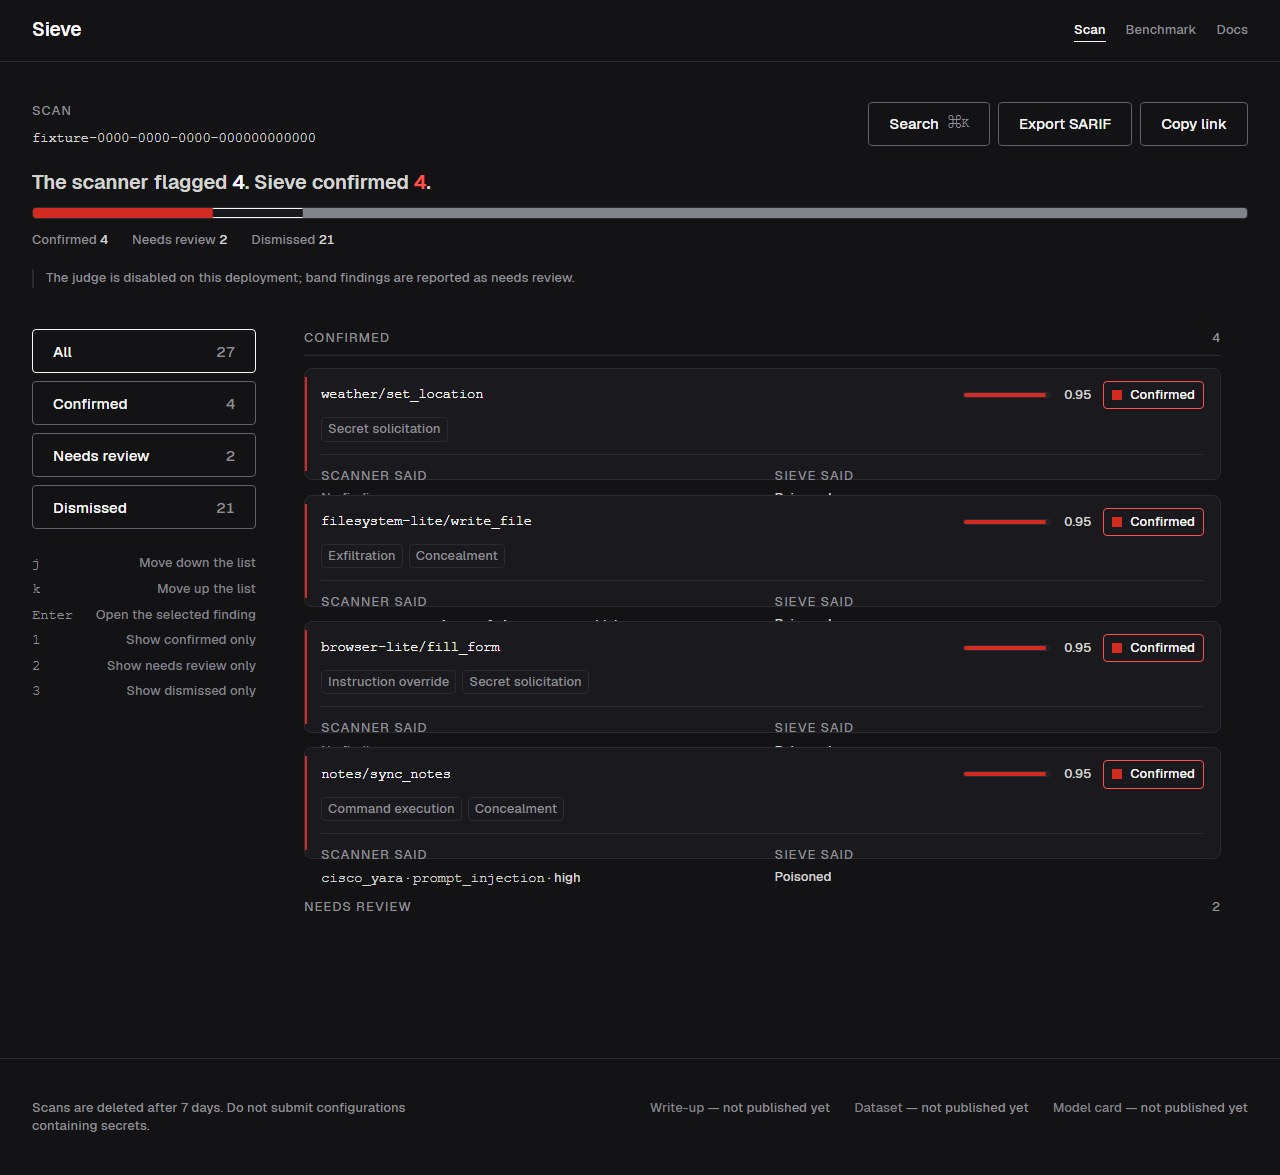
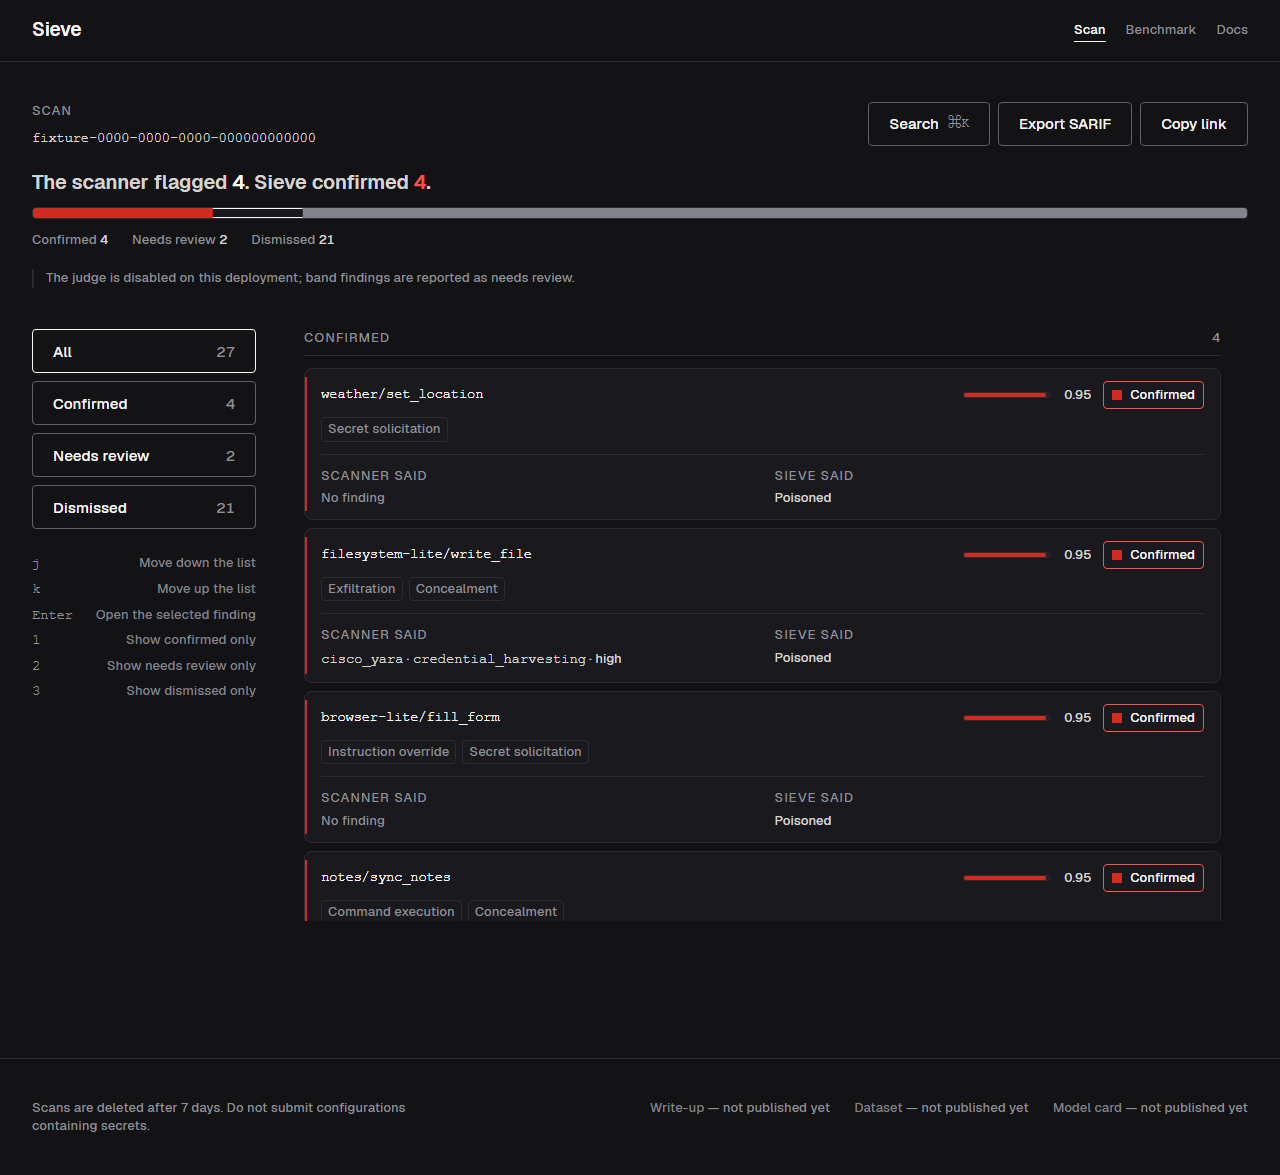
fix(web): give a finding row a floor instead of a ceiling, and wait on state in the palette
I6: `FindingRow`'s `sm:h-28` is a hard 112 px, and the row's own content measures 138-141 px
once the sub-label list and the dismissal reason are present -- so from 640 px up the "Scanner
said / Sieve said" values overflowed the card and were painted over by the next row. `min-h-28`
keeps the reserved height as a floor, so most of the CLS benefit survives and the clipping does
not. `results-{768,1280,1920}.png` regenerated with `npm run e2e -- --project=mocked
e2e/screenshots.spec.ts`; the 320/375/414 captures are byte-identical, which is correct -- `sm:`
starts at 640.

M12: `keyboard-only.spec.ts` pressed ControlOrMeta+k and typed immediately. Until cmdk's
`Command.Input` is mounted and focused the keystrokes go to the page body, where the results
screen binds 0/1/j/k/? -- so a slow first render swallowed a prefix, changed cmdk's ranking and
could fire a filter underneath. It now waits for the combobox to be focused and for the tool
option to exist before typing.

Not the reviewer's exact snippet: `expect(dialog).toBeVisible()` fails 20/20 here, because
cmdk's own `div[cmdk-dialog]` wrapper carries none of our classes and the styled `Command` root
inside it is `fixed`-positioned, so the wrapper collapses to a zero-size box that Playwright
calls hidden while everything in it is on screen. The combobox is the honest gate. Verified with
`npx playwright test e2e/keyboard-only.spec.ts --repeat-each=20 --project=mocked`: 140 passed.
[…]

diff --git a/web/e2e/keyboard-only.spec.ts b/web/e2e/keyboard-only.spec.ts
@@ -63,7 +63,21 @@ test("the palette is operable with the keyboard alone", async ({ page }) => {
   await page.goto(`/scan/${EXPECTED.scanId}`);
   await expect(page.getByTestId("group-count-confirmed")).toBeVisible();
 
+  // Wait on state, not a timer. `CommandPalette` is a cmdk `Command.Dialog` mounted on a React
+  // state change, and until `Command.Input` is mounted and focused the keystrokes go to the page
+  // body — where the results screen binds 0/1/j/k/? as shortcuts. A slow first render swallowed a
+  // prefix of "set_location", which both changed cmdk's ranking and could fire a filter shortcut
+  // underneath.
+  //
+  // Two waits, and neither is `expect(dialog).toBeVisible()`: cmdk's own `div[cmdk-dialog]`
+  // wrapper carries no class of ours, and the styled `Command` root inside it is
+  // `fixed`-positioned, so the wrapper collapses to a zero-size box and Playwright calls it
+  // hidden while everything inside it is on screen. The combobox is the honest gate — it is
+  // both "the palette is mounted" and "the next keystroke lands here" — and the tool list is
+  // fed by the scan feed, which arrives separately from the palette opening.
   await page.keyboard.press("ControlOrMeta+k");
+  await expect(page.getByRole("combobox", { name: "Command palette" })).toBeFocused();
+  await expect(page.getByRole("option", { name: /weather\/set_location/ })).toBeVisible();
   await page.keyboard.type("set_location");
 
   // cmdk re-ranks as it filters; wait for the tool to be the highlighted option before Enter.

diff --git a/web/src/components/findings/FindingRow.tsx b/web/src/components/findings/FindingRow.tsx
@@ -20,6 +20,11 @@ type Props = {
  * One row of the triage list. Hover and selection move the row's border and its left marker —
  * never its fill — because `--ink-3` (dismissed) is only contrast-safe on `--bg-0` and
  * `--bg-1`. See web/DESIGN.md §3.
+ *
+ * `sm:min-h-28`, not `sm:h-28`: the row's own content measures 138–141 px once the sub-label
+ * list and the dismissal reason are present, so a hard 112 px box clipped its last line from
+ * 640 px up. The floor keeps most of the reserved-row CLS benefit; a row that needs more takes
+ * it rather than painting over the next one.
  */
 export function FindingRow({ finding, selected, tabStop, onOpen }: Props) {
   const { result } = finding;
@@ -42,7 +47,7 @@ export function FindingRow({ finding, selected, tabStop, onOpen }: Props) {
         aria-current={selected ? "true" : undefined}
         tabIndex={tabStop ? 0 : -1}
         onClick={() => onOpen(finding)}
-        className={`u-interactive bg-bg-1 relative w-full rounded-2 border px-4 py-3 text-left before:absolute before:inset-y-2 before:left-0 before:w-0.5 before:content-[''] sm:h-28 ${marker} ${
+        className={`u-interactive bg-bg-1 relative w-full rounded-2 border px-4 py-3 text-left before:absolute before:inset-y-2 before:left-0 before:w-0.5 before:content-[''] sm:min-h-28 ${marker} ${
           selected ? "border-line-2" : "border-line-1 hover:border-line-2"
         }`}
       >

diff --git a/web/src/lib/verdict.ts b/web/src/lib/verdict.ts
@@ -53,10 +53,16 @@ export function dismissalReason(result: TriageResult): string | null {
 /**
  * What a `needs_review` verdict means when the stage explains it. A bare stage string
  * ("judge_budget_exhausted") is a database value, not a sentence for a person.
+ *
+ * `judge_budget_exhausted` covers **two** budgets, not one (fix round 2, M1): the daily spend
+ * ledger PRD §13.2 names, and the per-scan call cap (`SIEVE_JUDGE_MAX_CALLS_PER_SCAN`) that a
+ * scan with more band tools than the cap reaches on its own. The API sends one stage for both,
+ * so this copy says only what is certainly true of either — the judge did not see this tool, so
+ * a human should. Telling them apart needs a second stage in the contract, not a guess here.
  */
 export function stageNote(result: TriageResult): string | null {
   const notes: Partial<Record<Stage, string>> = {
-    judge_budget_exhausted: "Needs review — the daily judge budget was exhausted",
+    judge_budget_exhausted: "Needs review — the judge budget was exhausted",
     judge_failed: "Needs review — the judge did not return a usable answer",
   };
   return notes[result.stage] ?? null;

diff --git a/web/src/components/evidence/Evidence.test.tsx b/web/src/components/evidence/Evidence.test.tsx
@@ -172,7 +172,7 @@ describe("<FindingDetail />", () => {
       />,
     );
     expect(
-      screen.getByText("Needs review — the daily judge budget was exhausted"),
+      screen.getByText("Needs review — the judge budget was exhausted"),
     ).toBeInTheDocument();
     expect(screen.queryByText("judge_budget_exhausted")).not.toBeInTheDocument();
   });
